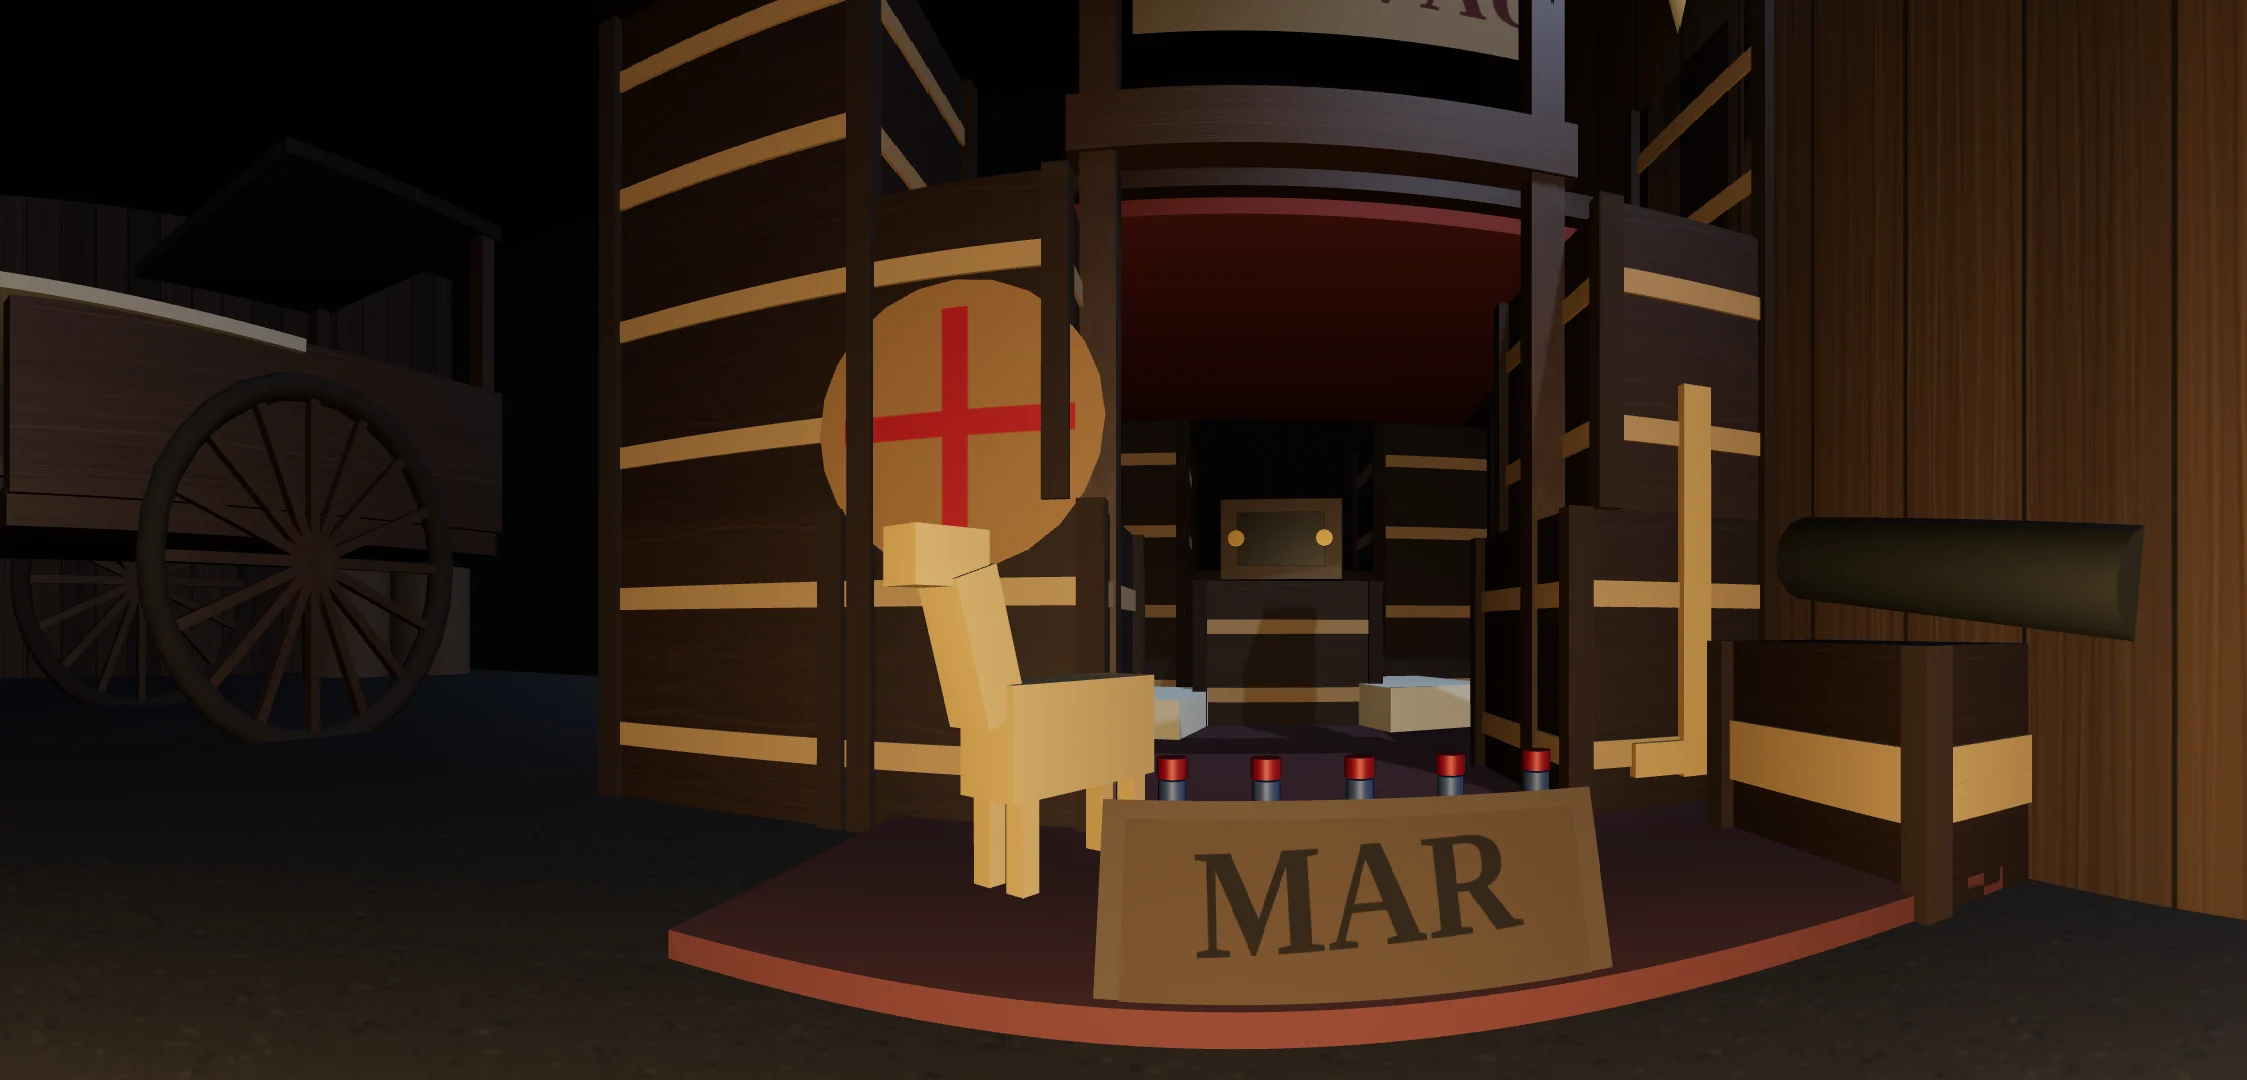
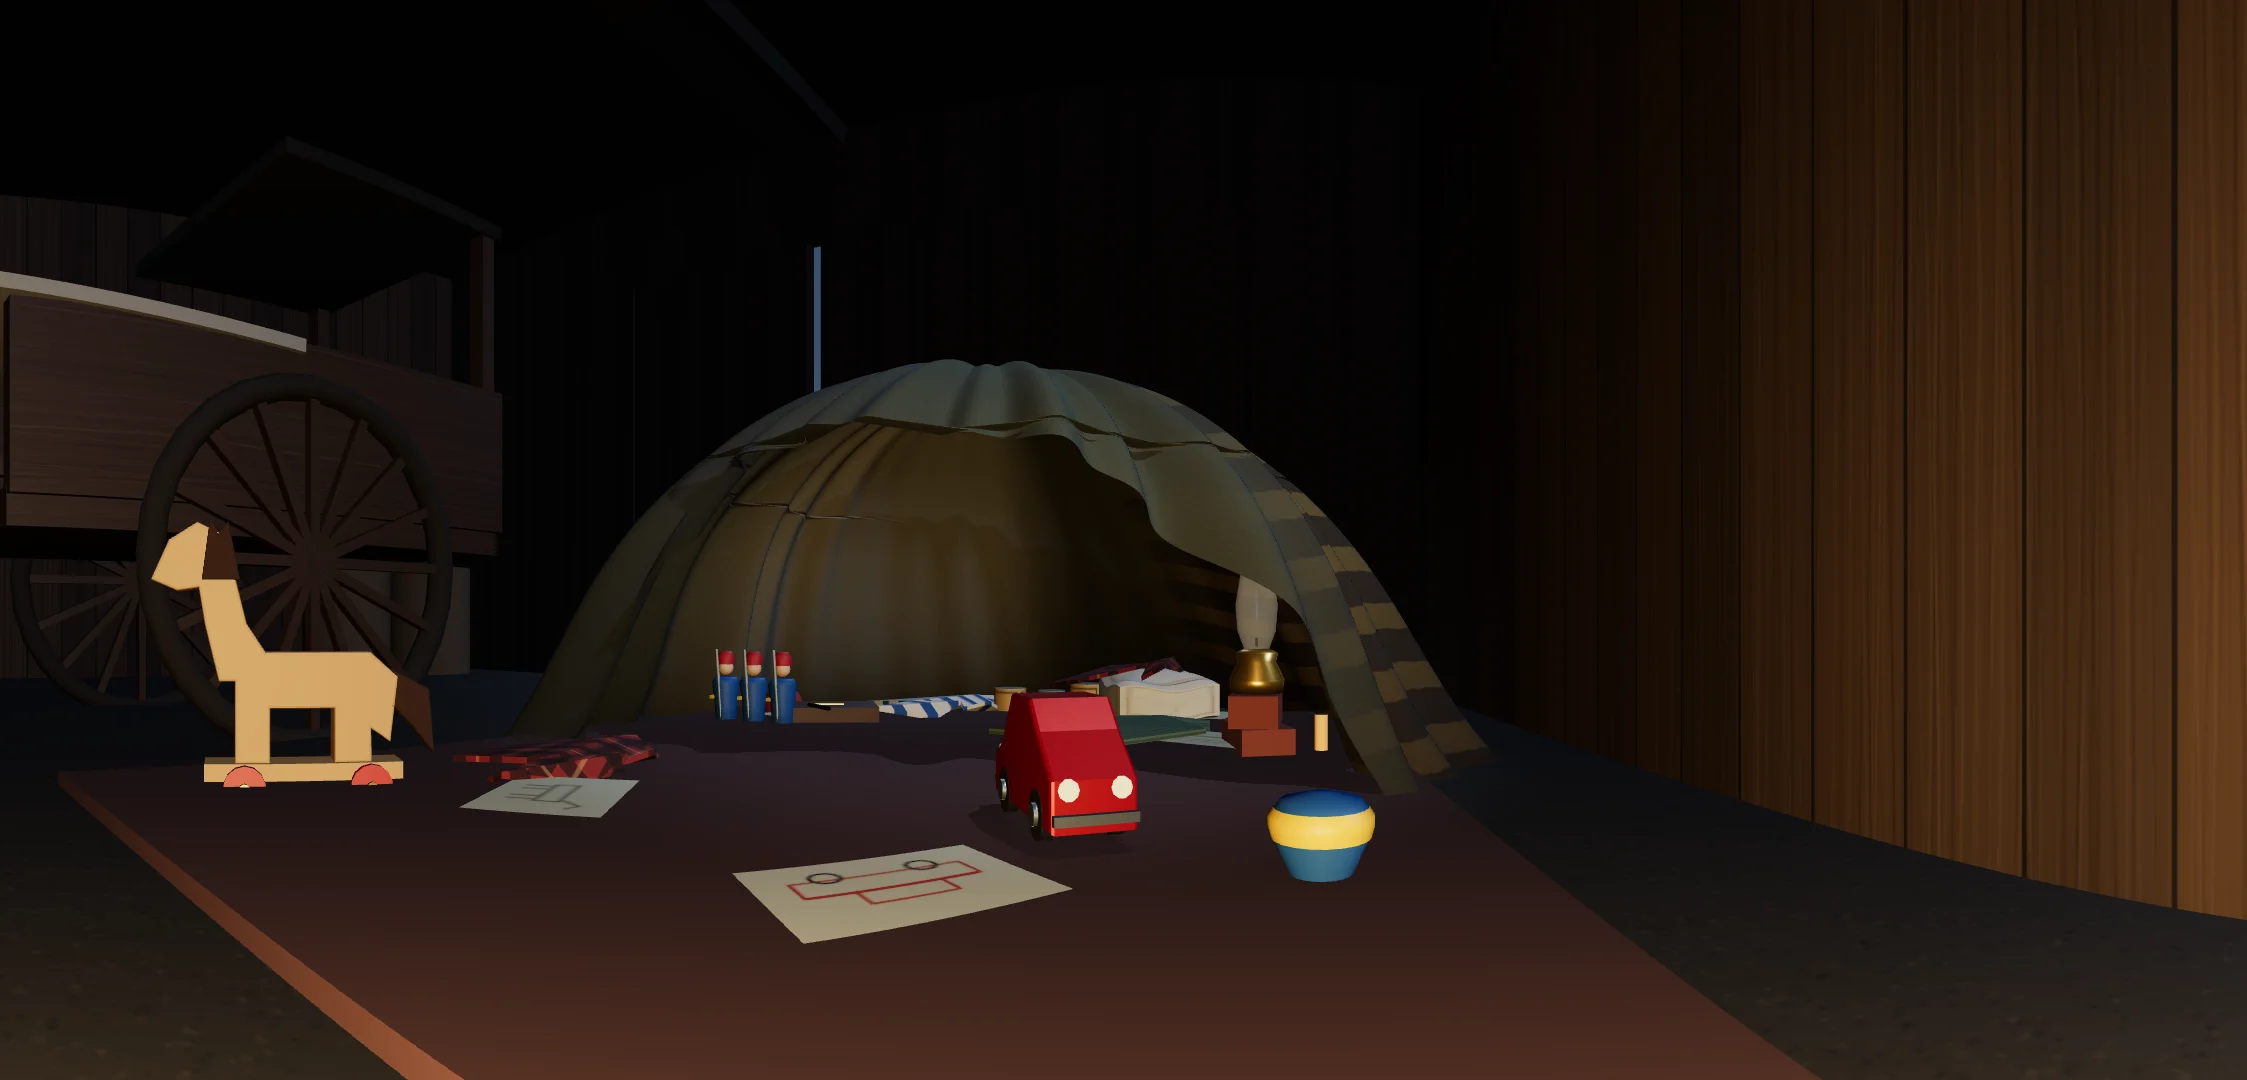
Garage re-baked with the new hideout: cloth shelter, toys, shirts, hidden family drawing
Claude-Session: https://claude.ai/code/session_01QSmXnVQE1jrKCkZmtwLJBh

diff --git a/tools/bake/set/world.ts b/tools/bake/set/world.ts
@@ -814,7 +814,7 @@ export function buildWorld(): World {
   const car = new Group();
   car.position.set(1.0, 0.052, -0.4);
   car.rotation.y = 0.5;
-  car.scale.setScalar(1.7);
+  car.scale.setScalar(1.25);
   fort.add(car);
   extruded([[-0.11, 0.02], [-0.11, 0.06], [-0.08, 0.075], [-0.055, 0.105], [-0.03, 0.135], [0.045, 0.135], [0.075, 0.105], [0.1, 0.085], [0.125, 0.065], [0.125, 0.02]], 0.085, metalRed, car);
   for (const sz of [-0.0445, 0.0445]) {
@@ -832,7 +832,7 @@ export function buildWorld(): World {
   const horse = new Group();
   horse.position.set(1.45, 0.0, 0.75);
   horse.rotation.y = -0.4;
-  horse.scale.setScalar(1.5);
+  horse.scale.setScalar(1.2);
   fort.add(horse);
   extruded([[-0.13, 0.1], [-0.14, 0.19], [-0.1, 0.225], [0.06, 0.225], [0.09, 0.27], [0.11, 0.35], [0.12, 0.4], [0.16, 0.42], [0.2, 0.395], [0.225, 0.34], [0.19, 0.325], [0.155, 0.33], [0.145, 0.27], [0.125, 0.19], [0.1, 0.19], [0.1, 0.07], [0.055, 0.07], [0.055, 0.15], [-0.05, 0.15], [-0.05, 0.07], [-0.1, 0.07], [-0.1, 0.12]], 0.045, toyWood, horse);
   extruded([[0.1, 0.34], [0.115, 0.42], [0.13, 0.4], [0.14, 0.43], [0.15, 0.34]], 0.05, std({ color: 0x3a2412, roughness: 1 }), horse);
@@ -847,9 +847,9 @@ export function buildWorld(): World {
   }
   // a spinning top: banded body, wooden peg and point
   const top = lathe([[0, -0.005], [0.012, 0], [0.035, 0.045], [0.05, 0.075], [0.052, 0.09], [0.04, 0.105], [0.01, 0.112], [0, 0.112]], paintBlue, 1.2, 0.0, -0.75, fort, 20);
-  top.scale.setScalar(1.6);
+  top.scale.setScalar(1.2);
   const topBand = lathe([[0.049, 0.07], [0.0525, 0.082], [0.0525, 0.09], [0.047, 0.098]], paintYellow, 1.2, 0.0, -0.75, fort, 20);
-  topBand.scale.setScalar(1.6);
+  topBand.scale.setScalar(1.2);
   cyl(0.008, 0.04, toyWood, 1.2, 0.2, -0.75, fort, 8);
   // three tin soldiers in a rank on a little base, with red caps and rifles
   for (let i = 0; i < 3; i++) {
